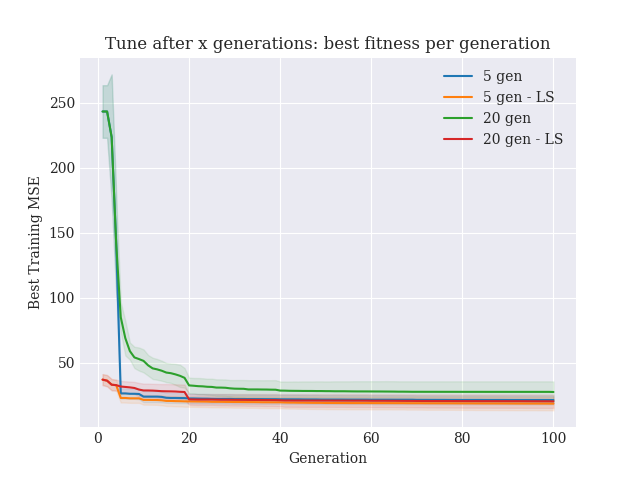
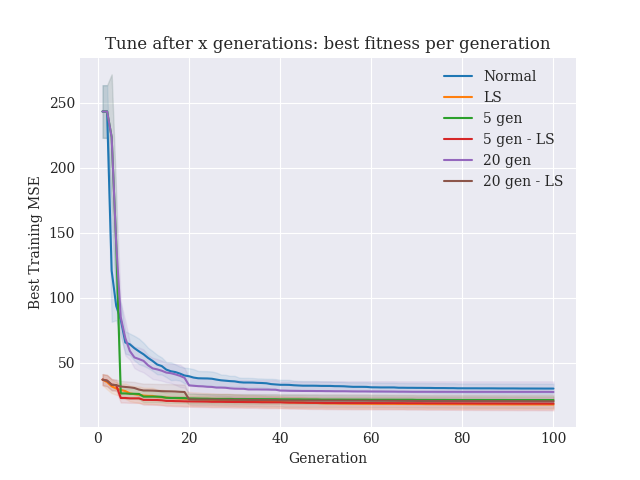
new plots

diff --git a/plots/plot_some_gen.py b/plots/plot_some_gen.py
@@ -14,6 +14,8 @@ runs = 10
 gens = 100
 pop_size = 100
 logs = [
+    ("../log/log_scale_normal_100.txt", "Normal"),
+    ("../log/log_scale_normal_ls_100.txt", "LS"),
     ("../log/log_tune_5_gen_max_gen_100.txt", "5 gen"),
     ("../log/log_tune_5_gen_ls_max_gen_100.txt", "5 gen - LS"),
     ("../log/log_tune_20_gen_max_gen_100.txt", "20 gen"),
